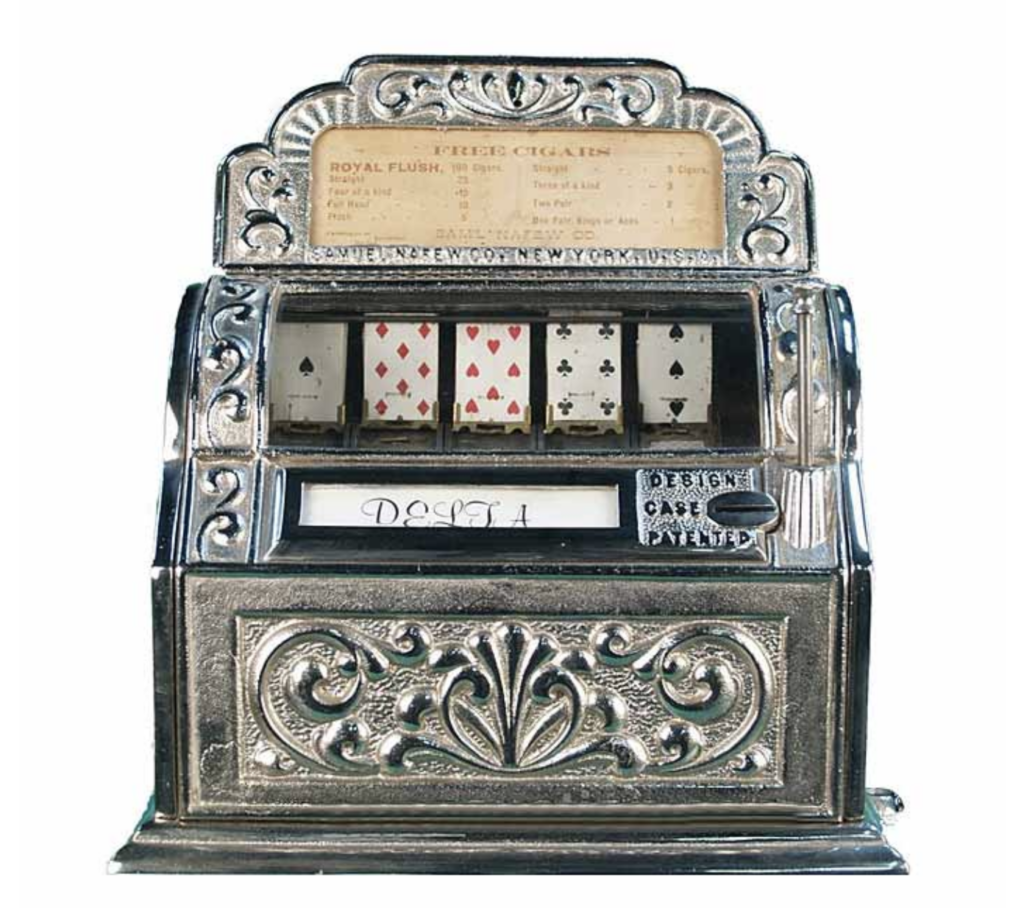
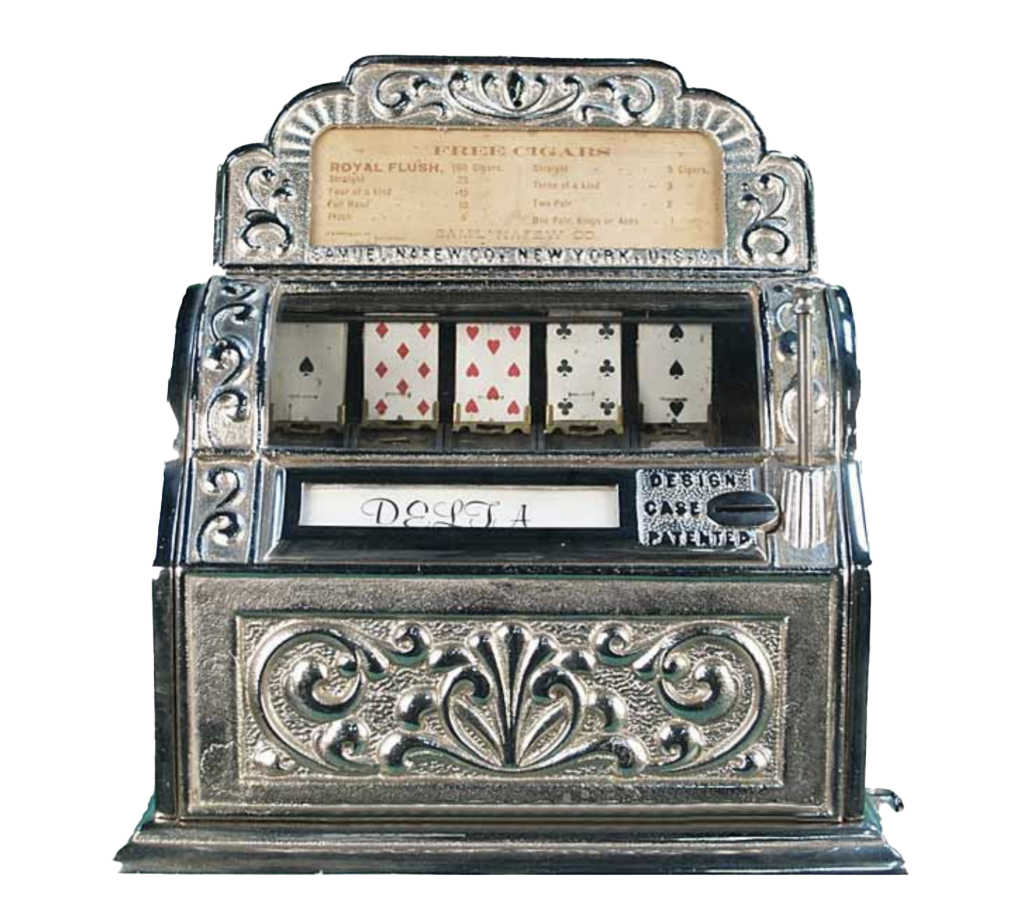
image-cleanup and attributions
added the attributions and removed the background from the images (except for the last photograph, which wasn't necessary.)

diff --git a/index.html b/index.html
@@ -40,7 +40,7 @@
                <!-- Image attributions -->
                 <div id="attribution"> 
                     <h2>Image Source</h2>
-                    <p><a href="www.mediasource.com/replaceme">Name of Source aha</a></p>
+                    <p><a href="https://www.charlesfey.com/history-of-slot-machines/">Source: Charles Fey</a></p>
                 </div>
             </section>
         </section>
@@ -53,8 +53,12 @@
                 </p>
             </section>
             <section id="image2" class="machine-view">
-                <img src="images/LibertyBell.jpeg" alt="Liberty Bell Slot Machine, an early, simple, and iconic design.">
-            </section>
+                <img src="images/LibertyBell.png" alt="Liberty Bell Slot Machine, an early, simple, and iconic design.">
+                <div class="attributions">
+                    <h2>Image Source</h2>
+                    <p id="attribution2" class="attributions"><a href="https://auctions.morphyauctions.com/5__CHARLES_FEY_LIBERTY_BELL_SLOT_MACHINE_-LOT494362.aspx">Source: Morphy Auctions</a></p>
+                </div>
+                </section>
         </section>
         <section id="bally-content" class="main-flex-child">
             <section id="bally-section" class="content">
@@ -64,10 +68,10 @@
                     The machine was a huge success and paved the way for the hallmarks of modern slot machines, like bonus rounds and free spins.</p>
             </section>
             <section id="image3" class="machine-view">
-                <img src="images/money-honey.jpg" alt="Money Honey Slot Machine, an early, electromechanical design.">
-                <div id="attribution"> 
+                <img src="images/money-honey.png" alt="Money Honey Slot Machine, an early, electromechanical design.">
+                <div class="attributions"> 
                     <h2>Image Source</h2>
-                    <p><a href="www.mediasource.com/replaceme">Name of Source aha</a></p>
+                    <p id="attribution3" class="attribution"><a href="https://www.liveauctioneers.com/price-result/bally-money-honey-special-25-cent-slot-machine/">Source: liveauctioneers</a></p>
                 </div>
             </section>
         </section>
@@ -80,10 +84,10 @@
                 </p>
             </section>
             <section id="image4" class="machine-view">
-                <img src="images/fortune-coin-video-slot.jpg" alt="Fortune Coin Video Slot Machine, an early, video-based design.">
-                <div id="attribution"> 
+                <img src="images/fortune-coin-video-slot.png" alt="Fortune Coin Video Slot Machine, an early, video-based design.">
+                <div class="attributions"> 
                     <h2>Image Source</h2>
-                    <p><a href="www.mediasource.com/replaceme">Name of Source aha</a></p>
+                    <p id="attribution4" class="attribution"><a href="https://www.jackpotparty.com/blog/how-much-is-a-slot-machine-worth/">Source: Jackpot Party Blog</a></p>
                 </div>
             </section>
         </section>
@@ -95,7 +99,11 @@
                 </p>
             </section>
             <section id="image-5" class="machine-view">
-                <img src="images/megabucks-progressive.jpg" alt="Megabucks Progressive Slot Machine, a wide-area progressive design.">
+                <img src="images/megabucks-progressive.png" alt="A man looking up at a Megabucks Progressive Slot Machine, a wide-area progressive design.">
+                <div class="attributions"> 
+                    <h2>Image Source</h2>
+                    <p id="attribution5" class="attribution"><a href="https://www.youtube.com/watch?v=tuVTWHVhiVA">Source: Pompsie Slots</a></p>
+                </div>
             </section>
         </section>
     </section>
